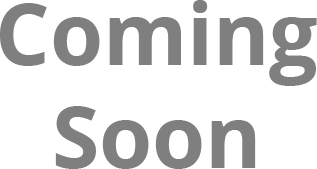
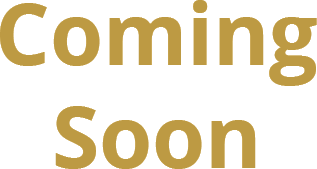
general work
UX/UI work

diff --git a/src/assets/styles/main.scss b/src/assets/styles/main.scss
@@ -37,6 +37,7 @@ img { display: block; max-width: 100%; }
 .site-header__toggle { display: none; margin-left: auto; width: 42px; height: 42px; border: 1px solid rgba(255,255,255,.25); background: transparent; font-size: 1.4rem; }
 
 .routed-section { scroll-margin-top: 68px; }
+#catalog-tabs, #recipe-lookup { scroll-margin-top: 68px; }
 .hero { position: relative; min-height: 100svh; padding: 8rem clamp(1.2rem, 6vw, 7rem) 5rem; display: flex; align-items: center; gap: clamp(2rem, 6vw, 7rem); overflow: hidden; background: radial-gradient(circle at 12% 20%, rgba(76,43,172,.65), transparent 37%), linear-gradient(120deg, #13092d 40%, #32105f 100%); }
 .hero::before { content: ''; position: absolute; inset: 0; opacity: .13; background-image: linear-gradient(rgba(255,255,255,.2) 1px, transparent 1px), linear-gradient(90deg, rgba(255,255,255,.2) 1px, transparent 1px); background-size: 48px 48px; mask-image: linear-gradient(to right, black, transparent 70%); }
 .hero__content { position: relative; z-index: 2; flex: 1 1 52%; max-width: 780px; }
@@ -219,10 +220,13 @@ img { display: block; max-width: 100%; }
 .item-tile img { width: 100px; height: 100px; object-fit: contain; background-color: rgba(0,0,0,0.5); padding: 1rem; }
 .item-tile span { flex: 1; display: flex; flex-direction: column; font-weight: 900; }
 .item-tile small { color: $cyan; font-size: .62rem; letter-spacing: .12em; text-transform: uppercase; }
-.item-tile--active { border-color: $yellow; background: #291542; }
+.item-tile:hover {
+    background-color: $night;
+}
+.item-tile--active { border-color: $yellow; background: #291542 !important; }
 .item-tile__recipe-link { flex: 0 0 auto; width: 2.2rem; height: 2.2rem; display: grid; place-items: center; border: none; background: transparent; color: $cyan; cursor: pointer; }
 .item-tile__recipe-link:hover { color: $ink; border-color: $cyan; }
-.item-detail { position: relative; flex: 1; min-width: 0; display: flex; border-left: 1px solid #453865; background: transparent; }
+.item-detail { position: relative; flex: 1; min-width: 0; display: flex; border-left: 1px solid #453865; background: transparent; min-height: 31rem;}
 .item-detail__visual { position: relative; flex: 1 1 52%; min-height: 420px; display: grid; place-items: center; background: radial-gradient(circle, #38226a, #130d29 70%); }
 .item-detail__visual img { width: 75%; max-height: 360px; object-fit: contain; }
 .item-detail__visual > span { position: absolute; bottom: 1rem; font-size: .6rem; letter-spacing: .15em; color: #847b9d; }
@@ -242,8 +246,25 @@ img { display: block; max-width: 100%; }
 .recipe-lookup__search > label { display: block; margin-bottom: .4rem; font-weight: 900; }
 .recipe-lookup__hint { margin: .55rem 0; color: #62596b; font-size: .78rem; display: none; }
 .recipe-lookup__search .search-field {margin-bottom: 1rem;}
-.recipe-options { max-height: 480px; overflow: auto; border: 1px solid #c9bca9; background: #fff; }
-.recipe-option { width: 100%; min-width: 0; display: flex; align-items: center; gap: .7rem; padding: .6rem; border: 0; border-bottom: 1px solid #ded4c7; background: transparent; color: #171126; text-align: left; cursor: pointer; }
+.recipe-options { max-height: 480px; overflow: auto; background: #fff; border: none; border-bottom: 1px solid #c9bca9;}
+.recipe-option {
+    width: 100%;
+    min-width: 0;
+    display: flex;
+    align-items: center;
+    gap: .7rem;
+    padding: .6rem;
+    background: transparent;
+    color: #171126;
+    text-align: left;
+    cursor: pointer;
+    border: none;
+    outline: 1px solid #c9bca9;
+    margin-bottom: -1px;
+    outline-offset: -1px;
+    z-index: 1;
+    position: relative;
+}
 .recipe-option img, .recipe-entity img, .recipe-result-heading img { flex: 0 0 auto; width: 55px; height: 55px; object-fit: contain; }
 .recipe-entity img {
     margin-top: 0.75rem;
@@ -252,14 +273,15 @@ img { display: block; max-width: 100%; }
 .recipe-option > span:not(.entity-fallback) { min-width: 0; display: flex; flex-direction: column; }
 .recipe-option b { overflow-wrap: anywhere; }
 .recipe-option small { color: #665b6d; }
-.recipe-option--active { color: #fff; background: #251447; }
-.recipe-option--active small { color: $cyan; }
+.recipe-option:hover { background: rgba($cyan, .15); }
+.recipe-option--active { color: $panel; background: $cyan !important; outline-color: $panel; z-index: 2;}
+.recipe-option--active small { color: $panel; }
 .recipe-lookup__detail { position: relative; min-width: 0; display: flex; flex-direction: column; padding: clamp(1.2rem, 3vw, 1.8rem); scroll-margin-top: 88px; }
 .recipe-lookup__back-to-search { display: none; position: absolute; top: 1rem; right: 1rem; align-items: center; justify-content: center; }
-.recipe-result-heading { display: flex; align-items: center; gap: 1rem; padding: 1rem; color: $ink; background: #251447; }
+.recipe-result-heading { display: flex; align-items: center; gap: 1rem; padding: 1rem; color: $panel; background: $cyan; border: 1px solid $panel}
 .recipe-result-heading__copy { flex: 1 1 auto; min-width: 0; container-type: inline-size; }
 .recipe-result-heading h3 { margin: 0; font-family: 'Guide Display'; font-size: clamp(1.75rem, 9cqi, 4rem); line-height: .95; text-transform: uppercase; overflow-wrap: break-word; hyphens: auto; }
-.recipe-result-heading .eyebrow { margin: 0 0 0.8rem 0; }
+.recipe-result-heading .eyebrow { margin: 0 0 0.8rem 0; color: $panel;}
 .recipe-result-note { margin: 1rem 0; color: #51475b; }
 .recipe-warning { margin: 1rem 0; padding: 1rem; border-left: 5px solid #a63518; background: #ffe5a1; font-weight: 700; }
 .resolved-recipes { display: grid; gap: 1rem; margin-top: 1rem; }
@@ -267,8 +289,11 @@ img { display: block; max-width: 100%; }
 .resolved-recipe h4 { margin: 0 0 .8rem; text-transform: uppercase; }
 .resolved-recipe__formula { display: flex; flex-wrap: wrap; align-items: center; gap: .6rem; }
 .recipe-entity { min-width: 110px; flex: 1 1 110px; display: flex; flex-direction: column; align-items: center; gap: .25rem; padding: .65rem; border: 1px dashed #9f8e78; background: none; text-align: center; cursor: pointer; }
-.recipe-entity:hover { border-color: $cyan; }
-.recipe-entity--result { color: $ink; border-style: solid; background: #251447; }
+.recipe-entity:hover { background-color: rgba(0,0,0,0.02); }
+.recipe-entity--result { color: $panel; border-style: solid; background: $cyan; border-color: #251447;}
+.recipe-entity--result:hover {
+    background-color: #51d6e0;
+}
 .formula-symbol { flex: 0 0 auto; color: #a63518; font-size: 1.4rem; font-weight: 900; }
 .recipe-empty { margin: 0; padding: 1.4rem 1.2rem; border: 1px solid #c9bca9; background: rgba(255,255,255,.55); color: #51475b; text-align: center; }
 .recipe-empty--detail { position: relative; flex: 1; display: flex; flex-direction: column; align-items: center; justify-content: center; gap: .35rem; padding: 2.2rem 1.5rem; border: 1px dashed #9f8e78; background: rgba(255,255,255,.45); }

diff --git a/src/test/guide.spec.ts b/src/test/guide.spec.ts
@@ -5,7 +5,7 @@ import { createPinia, setActivePinia } from 'pinia'
 import { createMemoryHistory, createRouter } from 'vue-router'
 import App from '@/App.vue'
 import GuideView from '@/views/GuideView.vue'
-import { routes } from '@/router'
+import { routes, scrollBehavior } from '@/router'
 import { sections } from '@/data/content'
 import { bosses, characters, levels } from '@/data/world'
 import { essences, items, materials } from '@/data'
@@ -168,6 +168,14 @@ describe('section routing', () => {
     expect(wrapper.find('#primary-navigation a[aria-current="page"]').text()).toBe('Home')
     wrapper.unmount()
   })
+
+  it('prefers a target hash over the section id, offset for the fixed header, so links can point past a section to a specific element', async () => {
+    const target = { meta: { section: 'recipes' }, hash: '#recipe-lookup' } as Parameters<typeof scrollBehavior>[0]
+    await expect(scrollBehavior(target, target, null)).resolves.toEqual({ el: '#recipe-lookup', top: 68, behavior: 'smooth' })
+
+    const sectionOnly = { meta: { section: 'recipes' }, hash: '' } as Parameters<typeof scrollBehavior>[0]
+    await expect(scrollBehavior(sectionOnly, sectionOnly, null)).resolves.toEqual({ el: '#recipes', behavior: 'smooth' })
+  })
 })
 
 describe('guide interactions', () => {
@@ -219,6 +227,7 @@ describe('guide interactions', () => {
     await machineGun!.find('.item-tile__recipe-link').trigger('click')
     await flushPromises()
     expect(router.currentRoute.value.path).toBe('/recipes')
+    expect(router.currentRoute.value.hash).toBe('#recipe-lookup')
     expect((wrapper.find('#recipe-search').element as HTMLInputElement).value).toBe('')
     expect(wrapper.find('.recipe-result-heading h3').text()).toBe('Machine Gun')
     wrapper.unmount()
@@ -226,6 +235,7 @@ describe('guide interactions', () => {
 
   it('jumps from a recipe-entity back to the items catalog under the All filter, regardless of kind', async () => {
     const { wrapper, router } = await mountGuide()
+    const scrollSpy = vi.spyOn(Element.prototype, 'scrollIntoView')
     await wrapper.find('#recipe-search').setValue('mAcHiNe GuN')
     await wrapper.find('#recipe-search').trigger('keydown', { key: 'Enter' })
     const ingredients = wrapper.findAll('.recipe-entity')
@@ -233,9 +243,14 @@ describe('guide interactions', () => {
     await gunpowder!.trigger('click')
     await flushPromises()
     expect(router.currentRoute.value.path).toBe('/items')
+    expect(router.currentRoute.value.hash).toBe('#catalog-tabs')
     const tabs = wrapper.findAll('.catalog-tabs [role="tab"]')
     expect(tabs[0].attributes('aria-selected')).toBe('true')
     expect(wrapper.find('.item-detail h3').text().replace(/\u00AD/g, '')).toBe('Gunpowder')
+    const gunpowderTile = document.getElementById('item-tile-material-gunpowder')
+    expect(gunpowderTile).not.toBeNull()
+    expect(scrollSpy.mock.instances).toContain(gunpowderTile)
+    scrollSpy.mockRestore()
     wrapper.unmount()
   })
 

diff --git a/src/components/RecipeLookup.vue b/src/components/RecipeLookup.vue
@@ -4,6 +4,7 @@ import { useRouter } from 'vue-router'
 import { getEntityById, items, recipeExtraction, recipes } from '@/data'
 import type { EntityId, ItemRecord } from '@/data/types'
 import { useGuideStore } from '@/stores/guide'
+import { itemTileId } from '@/utils/dom'
 import { withSoftHyphens } from '@/utils/text'
 
 const router = useRouter()
@@ -74,8 +75,11 @@ function clearInput() {
 function optionId(item: ItemRecord) { return `recipe-option-${item.id}` }
 
 function goToEntityInCatalog(id: EntityId) {
-  router.push('/items')
+  router.push('/items#catalog-tabs')
   store.viewEntityInCatalog(id)
+  nextTick(() => {
+    document.getElementById(itemTileId(id))?.scrollIntoView({ behavior: 'smooth', block: 'nearest' })
+  })
 }
 
 function selectItem(id: ItemRecord['id']) {
@@ -91,7 +95,7 @@ defineExpose({ selectItem })
 </script>
 
 <template>
-  <div class="recipe-lookup">
+  <div id="recipe-lookup" class="recipe-lookup">
     <div ref="searchPanel" class="recipe-lookup__search">
       <label for="recipe-search">Search Items</label>
       <div class="search-field">
@@ -105,7 +109,7 @@ defineExpose({ selectItem })
           aria-controls="recipe-results"
           :aria-activedescendant="activeIndex >= 0 && matches[activeIndex] ? optionId(matches[activeIndex]) : undefined"
           :aria-expanded="matches.length > 0"
-          placeholder="Search 121 items by name or number"
+          placeholder="Search 121 Items"
           @keydown="onKeydown"
         />
         <button v-if="query" type="button" class="search-field__clear" aria-label="Clear search" @click="clearInput">×</button>
@@ -119,7 +123,7 @@ defineExpose({ selectItem })
           type="button"
           role="option"
           :aria-selected="selected?.id === item.id"
-          :class="['recipe-option', { 'recipe-option--active': activeIndex === index }]"
+          :class="['recipe-option', { 'recipe-option--active': selected?.id === item.id }]"
           @mouseenter="activeIndex = index"
           @click="selectByClick(item, $event)"
         >

diff --git a/src/views/GuideView.vue b/src/views/GuideView.vue
@@ -14,12 +14,13 @@ import { useGuideStore } from '@/stores/guide'
 import type { CatalogEntity, CatalogKind } from '@/stores/guide'
 import type { ItemRecord } from '@/data/types'
 import { withSoftHyphens } from '@/utils/text'
+import { itemTileId } from '@/utils/dom'
 
 const store = useGuideStore()
 const router = useRouter()
 const recipeLookup = ref<InstanceType<typeof RecipeLookup> | null>(null)
 function goToItemRecipe(id: ItemRecord['id']) {
-  router.push('/recipes')
+  router.push('/recipes#recipe-lookup')
   recipeLookup.value?.selectItem(id)
 }
 const { selectedCharacter, selectedEntity, filteredEntities, catalogKind, itemCategory, itemLevel, materialRarity, itemQuery, selectedLevel, selectedMove, selectedSpecial, selectedMoveIndex, selectedSpecialIndex, selectedBoss } = storeToRefs(store)
@@ -481,13 +482,13 @@ const dividerStone = `/media/menus/stone-${stoneColors[Math.floor(Math.random() 
 
     <section id="items" class="content-section routed-section content-section--items" aria-labelledby="items-title">
       <SectionHeading title-id="items-title" kicker="03 / Items" title="Browse Items" intro="Browse all items, material cards, and essences cards in one place." style="margin-bottom: 1rem;"/>
-      <div class="catalog-tabs" role="tablist" aria-label="Catalog entity kind">
+      <div id="catalog-tabs" class="catalog-tabs" role="tablist" aria-label="Catalog entity kind">
         <button v-for="(tab, index) in catalogTabs" :key="tab.kind" :ref="element => { if (element) tabElements[index] = element as HTMLButtonElement }" type="button" role="tab" :aria-selected="catalogKind === tab.kind" :tabindex="catalogKind === tab.kind ? 0 : -1" @click="activateCatalogTab(tab.kind, index)" @keydown="onTabKeydown($event, index)">{{ tab.label }}</button>
       </div>
       <div class="catalog-panel">
         <label class="item-search" for="item-search">Search {{ catalogTabs.find(tab => tab.kind === catalogKind)?.label.toLowerCase() }}
           <div class="search-field">
-            <input id="item-search" ref="itemSearchInput" :value="itemQuery" type="search" placeholder="Name or catalog number" @input="store.setItemQuery(($event.target as HTMLInputElement).value)" />
+            <input id="item-search" ref="itemSearchInput" :value="itemQuery" type="search" placeholder="Search 152 Items" @input="store.setItemQuery(($event.target as HTMLInputElement).value)" />
             <button v-if="itemQuery" type="button" class="search-field__clear" aria-label="Clear search" @click="clearItemQuery">×</button>
           </div>
         </label>
@@ -502,7 +503,7 @@ const dividerStone = `/media/menus/stone-${stoneColors[Math.floor(Math.random() 
         </div>
         <div class="item-browser">
           <div class="item-browser__list" role="list" :aria-label="`${catalogTabs.find(tab => tab.kind === catalogKind)?.label} catalog`">
-            <div v-for="entity in filteredEntities" :key="entity.record.id" :class="['item-tile', { 'item-tile--active': selectedEntity?.record.id === entity.record.id }]">
+            <div v-for="entity in filteredEntities" :id="itemTileId(entity.record.id)" :key="entity.record.id" :class="['item-tile', { 'item-tile--active': selectedEntity?.record.id === entity.record.id }]">
               <button type="button" class="item-tile__select" @click="store.selectEntity(entity.record.id)">
                 <img v-if="entity.record.media" :src="entity.record.media" alt="" />
                 <span v-else class="entity-fallback" aria-hidden="true">{{ entity.record.name.slice(0, 2) }}</span>

diff --git a/src/router/index.ts b/src/router/index.ts
@@ -9,7 +9,10 @@ export const routes = [
   { path: '/:pathMatch(.*)*', redirect: '/home' },
 ]
 
+const SITE_HEADER_HEIGHT = 68
+
 export const scrollBehavior: RouterScrollBehavior = (to) => {
+  if (to.hash) return new Promise(resolve => requestAnimationFrame(() => resolve({ el: to.hash, top: SITE_HEADER_HEIGHT, behavior: 'smooth' as const })))
   const section = to.meta.section as string | undefined
   if (!section) return { top: 0 }
   return new Promise(resolve => requestAnimationFrame(() => resolve({ el: `#${section}`, behavior: 'smooth' as const })))

diff --git a/src/utils/dom.ts b/src/utils/dom.ts
@@ -1,0 +1,3 @@
+export function itemTileId(id: string) {
+  return `item-tile-${id}`
+}